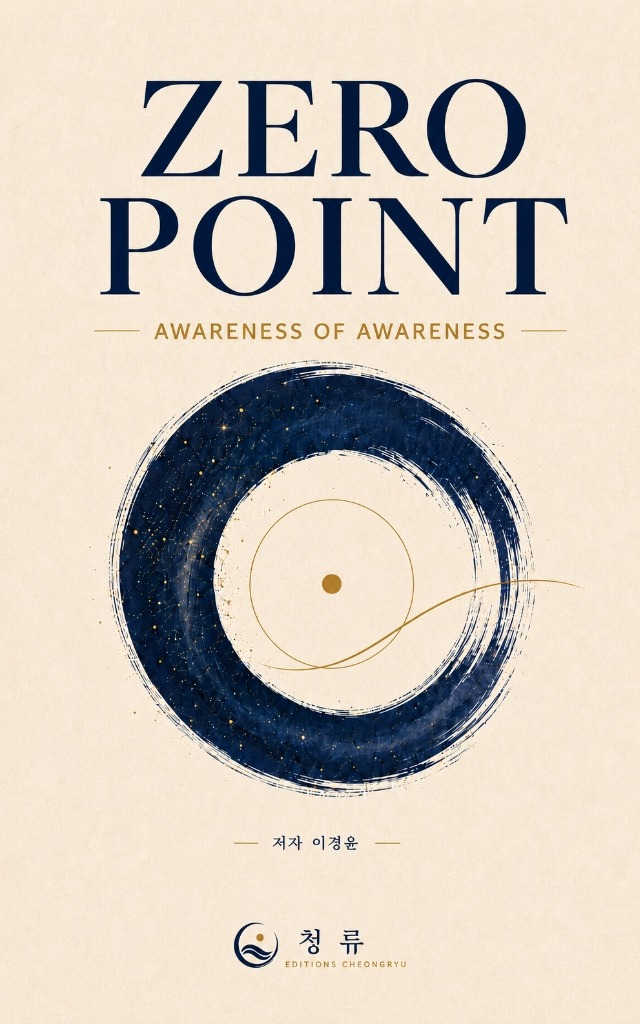
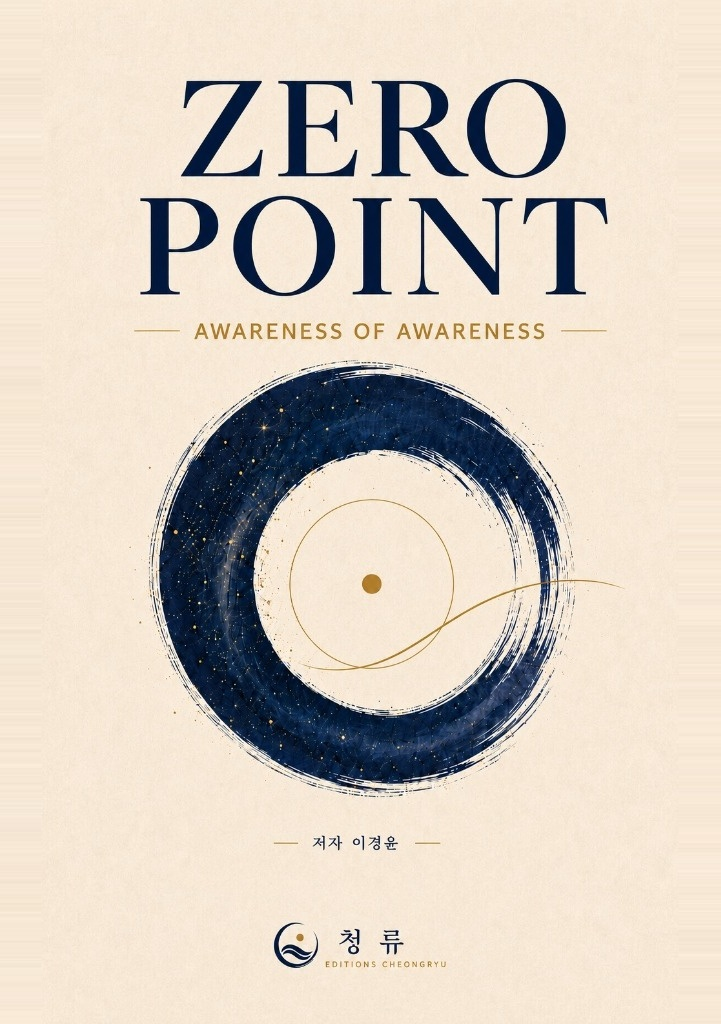
fix: Standardize ZERO POINT book cover aspect ratio and size with other books

diff --git a/index.html b/index.html
@@ -2611,7 +2611,7 @@
         <!-- Section Header -->
         <div class="text-center max-w-3xl mx-auto mb-12 relative z-10">
           <div class="inline-flex items-center gap-2 px-3.5 py-1.5 rounded-full bg-gradient-to-r from-emerald-500/20 via-rose-500/20 to-amber-500/20 border border-emerald-500/40 text-xs font-bold text-emerald-300 mb-3 shadow-sm">
-            <span>👑 AUTHOR'S PUBLISHED WORKS · 이경윤 대표 정식 출간작 4종</span>
+            <span>👑 AUTHOR'S PUBLISHED WORKS · 이경윤 대표 정식 출간작 5종</span>
           </div>
           <h2 class="text-2xl sm:text-4xl font-black text-white tracking-tight">
             현재 정식 출간된 <span class="text-transparent bg-clip-text bg-gradient-to-r from-emerald-300 via-amber-200 to-teal-300">대표 도서 컬렉션</span>
@@ -2637,7 +2637,7 @@
                   <img 
                     src="/assets/book-cover-darkcode.jpg" 
                     alt="다크 코드 - THE DARK CODE" 
-                    class="relative w-36 sm:w-40 rounded-xl shadow-2xl border border-white/20 object-cover mx-auto"
+                    class="relative w-36 sm:w-40 aspect-[1/1.42] rounded-xl shadow-2xl border border-white/20 object-contain mx-auto"
                   />
                 </div>
                 <div class="mt-2.5">
@@ -2684,7 +2684,7 @@
                   <img 
                     src="/assets/book-cover-neuralcode.jpg" 
                     alt="뉴럴 코드 - THE NEURAL CODE" 
-                    class="relative w-36 sm:w-40 rounded-xl shadow-2xl border border-white/20 object-cover mx-auto"
+                    class="relative w-36 sm:w-40 aspect-[1/1.42] rounded-xl shadow-2xl border border-white/20 object-contain mx-auto"
                   />
                 </div>
                 <div class="mt-2.5">
@@ -2731,7 +2731,7 @@
                   <img 
                     src="/assets/book-cover-genre.jpg" 
                     alt="오류가 아니라, 장르입니다" 
-                    class="relative w-36 sm:w-40 rounded-xl shadow-2xl border border-white/20 object-cover mx-auto"
+                    class="relative w-36 sm:w-40 aspect-[1/1.42] rounded-xl shadow-2xl border border-white/20 object-contain mx-auto"
                   />
                 </div>
                 <div class="mt-2.5">
@@ -2775,7 +2775,7 @@
                   <img 
                     src="/assets/book-cover-freedom.jpg" 
                     alt="나는 믿는다, 그러나 갇히지 않는다" 
-                    class="relative w-36 sm:w-40 rounded-xl shadow-2xl border border-white/20 mx-auto"
+                    class="relative w-36 sm:w-40 aspect-[1/1.42] rounded-xl shadow-2xl border border-white/20 object-contain mx-auto"
                   />
                 </div>
                 <div class="mt-2.5">
@@ -2817,9 +2817,9 @@
                 <div class="relative group-hover:scale-[1.03] transition duration-300 inline-block">
                   <div class="absolute -inset-1 bg-gradient-to-r from-amber-500 to-orange-500 rounded-xl blur opacity-30 group-hover:opacity-70 transition"></div>
                   <img 
-                    src="/assets/book-cover-zeropoint.jpg" 
+                    src="/assets/book-cover-zeropoint.jpg?v=20261012" 
                     alt="ZERO POINT: Awareness of Awareness" 
-                    class="relative w-36 sm:w-40 rounded-xl shadow-2xl border border-white/20 mx-auto"
+                    class="relative w-36 sm:w-40 aspect-[1/1.42] rounded-xl shadow-2xl border border-white/20 object-contain mx-auto"
                   />
                 </div>
                 <div class="mt-2.5">

diff --git a/library.html b/library.html
@@ -300,7 +300,7 @@
         <!-- Section Header -->
         <div class="text-center max-w-2xl mx-auto mb-12 relative z-10">
           <div class="inline-flex items-center gap-2 px-3.5 py-1.5 rounded-full bg-amber-500/20 border border-amber-500/40 text-xs font-bold text-amber-300 mb-3 shadow-sm">
-            <span>👑 AUTHOR'S PUBLISHED WORKS · 이경윤 대표 정식 출간작 2종</span>
+            <span>👑 AUTHOR'S PUBLISHED WORKS · 이경윤 대표 정식 출간작 5종</span>
           </div>
           <h2 class="text-2xl sm:text-4xl font-black text-white tracking-tight">
             현재 정식 출간된 <span class="text-transparent bg-clip-text bg-gradient-to-r from-amber-300 via-emerald-200 to-teal-300">대표 도서 컬렉션</span>
@@ -323,7 +323,7 @@
                   <img 
                     src="/assets/book-cover-darkcode.jpg" 
                     alt="다크 코드 표지" 
-                    class="relative w-36 sm:w-40 rounded-xl shadow-2xl border border-white/20 object-contain mx-auto"
+                    class="relative w-36 sm:w-40 aspect-[1/1.42] rounded-xl shadow-2xl border border-white/20 object-contain mx-auto"
                   />
                 </div>
                 <div class="mt-3">
@@ -367,7 +367,7 @@
                   <img 
                     src="/assets/book-cover-neuralcode.jpg" 
                     alt="뉴럴 코드 표지" 
-                    class="relative w-36 sm:w-40 rounded-xl shadow-2xl border border-white/20 object-contain mx-auto"
+                    class="relative w-36 sm:w-40 aspect-[1/1.42] rounded-xl shadow-2xl border border-white/20 object-contain mx-auto"
                   />
                 </div>
                 <div class="mt-3">
@@ -411,7 +411,7 @@
                   <img 
                     src="/assets/book-cover-genre.jpg" 
                     alt="오류가 아니라, 장르입니다 표지" 
-                    class="relative w-36 sm:w-40 rounded-xl shadow-2xl border border-white/20 object-contain mx-auto"
+                    class="relative w-36 sm:w-40 aspect-[1/1.42] rounded-xl shadow-2xl border border-white/20 object-contain mx-auto"
                   />
                 </div>
                 <div class="mt-3">
@@ -455,7 +455,7 @@
                   <img 
                     src="/assets/book-cover-freedom.jpg" 
                     alt="나는 믿는다, 그러나 갇히지 않는다" 
-                    class="relative w-36 sm:w-40 rounded-xl shadow-2xl border border-white/20 object-contain mx-auto"
+                    class="relative w-36 sm:w-40 aspect-[1/1.42] rounded-xl shadow-2xl border border-white/20 object-contain mx-auto"
                   />
                 </div>
                 <div class="mt-3">
@@ -497,9 +497,9 @@
                 <div class="relative inline-block group-hover:scale-[1.03] transition duration-300">
                   <div class="absolute -inset-1 bg-gradient-to-r from-amber-500 to-orange-500 rounded-xl blur opacity-30 group-hover:opacity-70 transition"></div>
                   <img 
-                    src="/assets/book-cover-zeropoint.jpg" 
+                    src="/assets/book-cover-zeropoint.jpg?v=20261012" 
                     alt="ZERO POINT: Awareness of Awareness" 
-                    class="relative w-36 sm:w-40 rounded-xl shadow-2xl border border-white/20 object-contain mx-auto"
+                    class="relative w-36 sm:w-40 aspect-[1/1.42] rounded-xl shadow-2xl border border-white/20 object-contain mx-auto"
                   />
                 </div>
                 <div class="mt-3">
